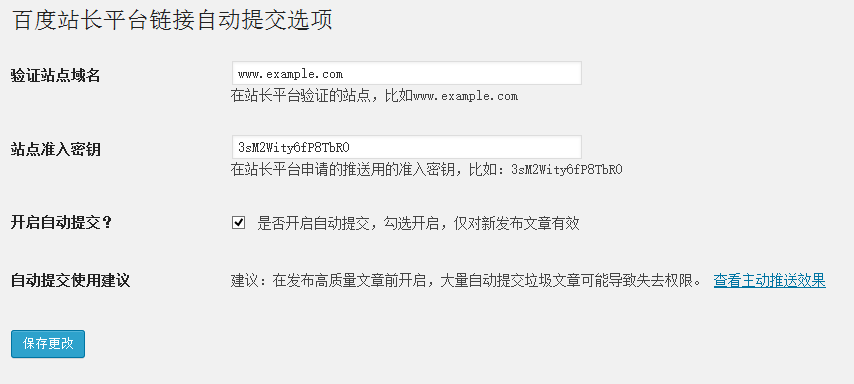
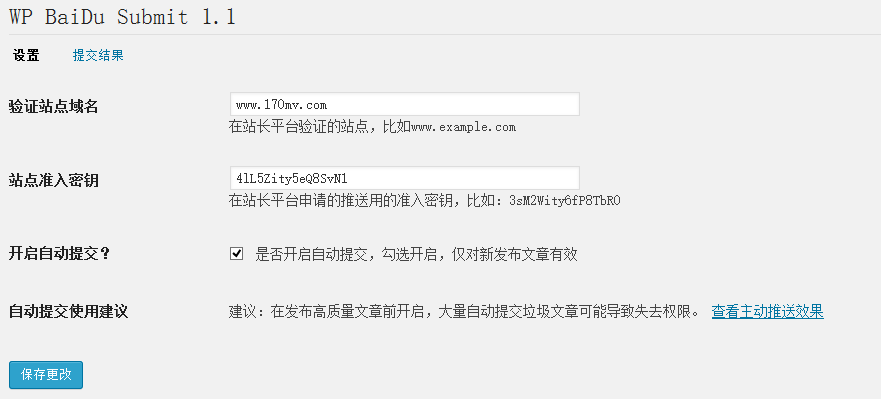
version 1.1
git-svn-id: https://plugins.svn.wordpress.org/wp-baidu-submit/trunk@1161002 b8457f37-d9ea-0310-8a92-e5e31aec5664

diff --git a/wp_baidu_submit.php b/wp_baidu_submit.php
@@ -2,25 +2,27 @@
 /*
 Plugin Name: WP BaiDu Submit
 Description: WP BaiDu Submit帮助获得百度站长Sitemap权限的用户自动提交最新文章，加速百度收录。
-Version: 1.0
+Version: 1.1
 Plugin URI: https://wordpress.org/plugins/wp-baidu-submit/
 Author: Include
 Author URI: http://www.170mv.com/
 */
 /*
 Publish Date: 2015-05-09
+Last Update: 2015-05-15
 */
+date_default_timezone_set('Asia/Shanghai');
 add_action('publish_post', 'publish_bd_submit', 0);
 function publish_bd_submit($post_ID){
 	global $post;
-	$bd_submit_site = get_option('bd_submit_site');
-	$bd_submit_token = get_option('bd_submit_token');
 	$bd_submit_enabled = get_option('bd_submit_enabled');
 	if($bd_submit_enabled){
+		$bd_submit_site = get_option('bd_submit_site');
+		$bd_submit_token = get_option('bd_submit_token');
 		if( empty($post_ID) || empty($bd_submit_site) || empty($bd_submit_token) ) return;
 		$api = 'http://data.zz.baidu.com/urls?site='.$bd_submit_site.'&token='.$bd_submit_token;
 		if( $post->post_status != "publish" ){
-			$url = get_permalink($post_id);
+			$url = get_permalink($post_ID);
 			$ch = curl_init();
 			$options =  array(
 				CURLOPT_URL => $api,
@@ -32,23 +34,55 @@ function publish_bd_submit($post_ID){
 			curl_setopt_array($ch, $options);
 			$result = curl_exec($ch);
 			$result = json_decode($result, true);
-			if($result['error']){
+			if($result['message']){
 				update_option('bd_submit_error',$result['message']);
-			}else{
+			}
+			if($result['success']){
 				delete_option('bd_submit_error');
+				$time = nowtime();
+				$file = dirname(__FILE__).'/submit_log.txt';
+				if(date('Y-m-d',filemtime($file)) != date('Y-m-d')){
+					$handle = fopen($file,"w");
+				}else{
+					$handle = fopen($file,"a");
+				}
+				fwrite($handle,"$time|$url||");
+				fclose($handle);
 			}
 		}
 	}
 }
 
+add_action('wp_footer', 'robots_log');
+function robots_log(){
+	$searchbot = get_naps_bot();
+	if ($searchbot) {
+		$tlc_thispage = addslashes($_SERVER['HTTP_USER_AGENT']);  
+		$url = $_SERVER['HTTP_REFERER'];  
+		$file = dirname(__FILE__).'/robots_log.txt';  
+		$time = nowtime();
+		$PR = home_url().$_SERVER['REQUEST_URI']; 
+		if(date('Y-m-d',filemtime($file)) != date('Y-m-d')){
+			$handle = fopen($file,"w");
+		}else{
+			$handle = fopen($file,"a");
+		} 
+		fwrite($handle,"$time|$searchbot|$PR||");  
+		fclose($handle);
+	}
+}
+
 add_action('admin_menu', 'bd_submit_add_page');
 function bd_submit_add_page() {
-	add_options_page('WP BaiDu Submit选项', 'WP BaiDu Submit', 'manage_options', 'bd_submit', 'bd_submit_do_page');
+	//add_options_page('WP BaiDu Submit选项', 'WP BaiDu Submit', 'manage_options', 'bd_submit', 'bd_submit_do_page');
+	add_menu_page( 'WP BaiDu Submit 设置', 'BaiDu Submit', 'manage_options', 'wp_baidu_submit', 'bd_submit_settings' );
+	add_submenu_page('wp_baidu_submit', 'WP BaiDu Submit 设置', '设置', 'manage_options', 'wp_baidu_submit', 'bd_submit_settings' );
+	add_submenu_page('wp_baidu_submit', 'WP BaiDu Submit 提交结果', '提交结果', 'manage_options', 'wp_baidu_submit_result', 'bd_submit_result' );
 }
-function bd_submit_do_page() {
+function bd_submit_settings() {
 	if($_POST['submit']){
-		$bd_submit_site = $_POST['bd_submit_site'];
-		$bd_submit_token = $_POST['bd_submit_token'];
+		$bd_submit_site = trim($_POST['bd_submit_site']);
+		$bd_submit_token = trim($_POST['bd_submit_token']);
 		$bd_submit_enabled = $_POST['bd_submit_enabled'];
 		if( empty($bd_submit_site) || empty($bd_submit_token) ){
 			$bd_submit_enabled = 0;
@@ -60,11 +94,14 @@ function bd_submit_do_page() {
 		$bd_submit_site = get_option('bd_submit_site');
 		$bd_submit_token = get_option('bd_submit_token');
 		$bd_submit_enabled = get_option('bd_submit_enabled');
-		$bd_submit_error = get_option('bd_submit_error');
 	}
 ?>
 	<div class="wrap">
-		<h2>百度站长平台链接自动提交选项</h2>
+		<h2 style="border-bottom: 1px solid #DFDFDF;">WP BaiDu Submit 1.1</h2>
+		<ul class="subsubsub" style="float:none;">
+		<li style="padding-right:20px"> <a href="admin.php?page=wp_baidu_submit" class="current">设置</a></li>
+		<li style="padding-right:20px"> <a href="admin.php?page=wp_baidu_submit_result">提交结果</a></li>
+		</ul>
 		<form method="post" action="#">
 			<table class="form-table">
 				<tr valign="top"><th scope="row"><label for="bd_submit_site">验证站点域名</label></th>
@@ -85,13 +122,6 @@ function bd_submit_do_page() {
 					</label>
 					</td>
 				</tr>
-				<?php if($bd_submit_error){ ?>
-				<tr valign="top"><th scope="row">提交返回错误</th>
-					<td>
-					错误信息：<?php echo $bd_submit_error; ?>
-					</td>
-				</tr>
-				<?php } ?>
 				<tr valign="top"><th scope="row">自动提交使用建议</th>
 					<td>
 					建议：在发布高质量文章前开启，大量自动提交垃圾文章可能导致失去权限。
@@ -101,16 +131,90 @@ function bd_submit_do_page() {
 			</table>
 			<p class="submit">
 			<input type="submit" name="submit" class="button-primary" value="<?php _e('Save Changes') ?>" />
-			</p>
-			<h2>提交返回错误信息记录</h2>
-			<table class="form-table">
-				<tr valign="top"><th scope="row">提交返回错误</th>
-					<td>
-					错误信息：<?php if($bd_submit_error){  echo $bd_submit_error; }else{ echo '恭喜，目前没有错误信息'; } ?>
-					</td>
-				</tr>
-			</table>
+			</p>		
 		</form>
 	</div>
 	<?php	
+}
+function bd_submit_result() {
+	$robots_log_file = dirname(__FILE__).'/robots_log.txt';
+	$submit_log_file = dirname(__FILE__).'/submit_log.txt';
+	$bd_submit_error = get_option('bd_submit_error');
+?>
+
+<style type="text/css">
+#urlstat { border: 1px solid #DDDDDD; border-collapse:collapse; }
+#urlstat th, #urlstat td { border:1px solid #DDDDDD; padding: 5px 15px; text-align: center; }
+</style>
+<div class="wrap">
+	<h2 style="border-bottom: 1px solid #DFDFDF;">WP BaiDu Submit 1.1</h2>
+	<ul class="subsubsub" style="float:none;">
+	<li style="padding-right:20px"> <a href="admin.php?page=wp_baidu_submit">设置</a></li>
+	<li style="padding-right:20px"> <a href="admin.php?page=wp_baidu_submit_result" class="current">提交结果</a></li>
+	</ul>
+	<h3>提交成功记录</h3>
+	<table id="urlstat" class="form-table">
+	<tbody>
+	<tr><th>提交网址</th><th>提交状态</th><th>提交时间</th><th>抓取状态</th><th>抓取时间</th></tr>
+<?php
+	if(file_exists($submit_log_file) && file_exists($robots_log_file)){
+		$robots_log = file_get_contents($robots_log_file);
+		$robots_log_info = explode('||',$robots_log);
+		$submit_log = file_get_contents($submit_log_file);
+		$submit_log_info = explode('||',$submit_log);
+		$robots_log_url  = array();
+		$submit_log_url  = array();
+		foreach($robots_log_info as $value){
+			trim($value) && $robots_log_url[] = explode("|",$value);
+		}
+		foreach($submit_log_info as $value){
+			trim($value) && $submit_log_url[] = explode("|",$value);
+		}
+		foreach ($submit_log_url as $url) {
+			if(!empty($url['1'])){
+				foreach($robots_log_url as $a){
+					if($a['2'] == $url['1']){
+						echo '<tr><td>'.$url['1'].'</td><td>成功</td><td>'.$url['0'].'</td><td>已抓取</td><td>'.$a['0'].'</td></tr>';
+						$is = 1;
+						break;
+					}else{
+						$is = 0;
+					}
+				}
+				if($is == 0){
+					echo '<tr><td>'.$url['1'].'</td><td>成功</td><td>'.$url['0'].'</td><td>未抓取</td><td>无</td></tr>';
+				}
+			}
+		}
+	}
+?>
+	</tbody>
+	</table>
+	<br />
+	<h3>错误信息记录</h3>
+	<table class="form-table">
+		<tr valign="top"><th scope="row">提交返回错误</th>
+			<td>
+			错误信息：<?php if($bd_submit_error){  echo $bd_submit_error; }else{ echo '恭喜，目前没有错误信息'; } ?>
+			</td>
+		</tr>
+	</table>	
+</div>
+<?php
+}
+function nowtime($time = ''){
+	date_default_timezone_set('Asia/Shanghai');
+	if($time != ''){
+		$date = date("Y-m-d H:i:s", $time);
+	}else{
+		$date = date("Y-m-d H:i:s");
+	}
+	return $date;  
+}
+function get_naps_bot(){
+	$useragent = strtolower($_SERVER['HTTP_USER_AGENT']);  
+	if (strpos($useragent, 'baiduspider') !== false){  
+		return 'Baiduspider';  
+	}
+	return false;
 }
